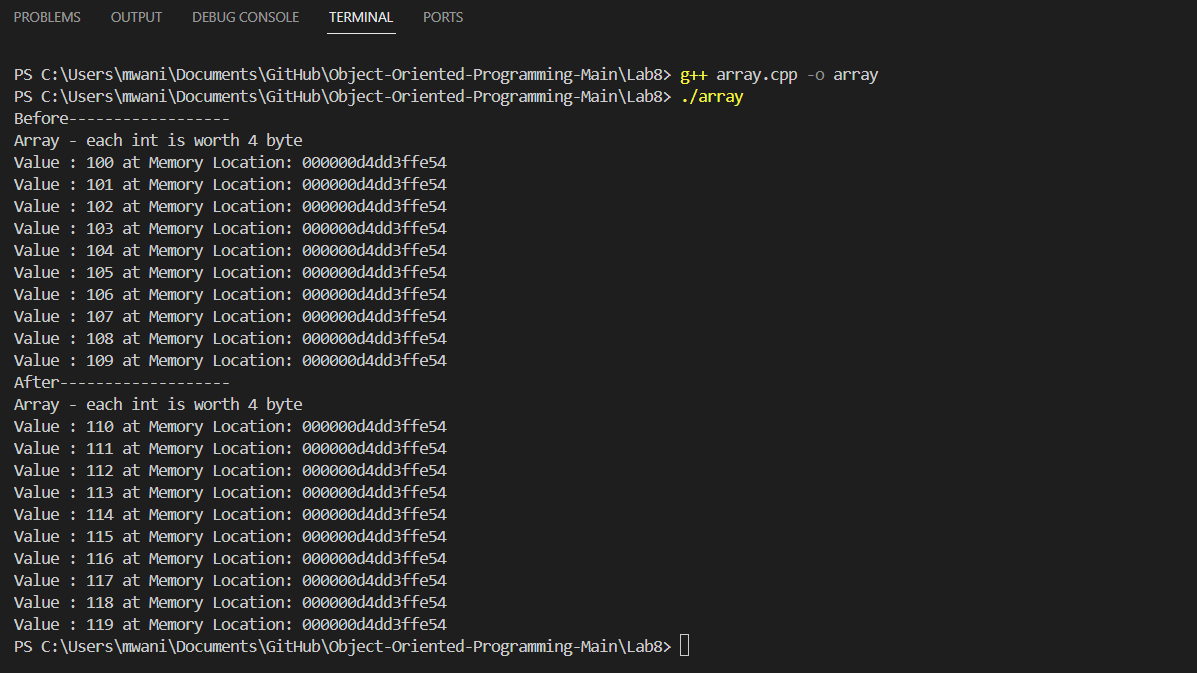
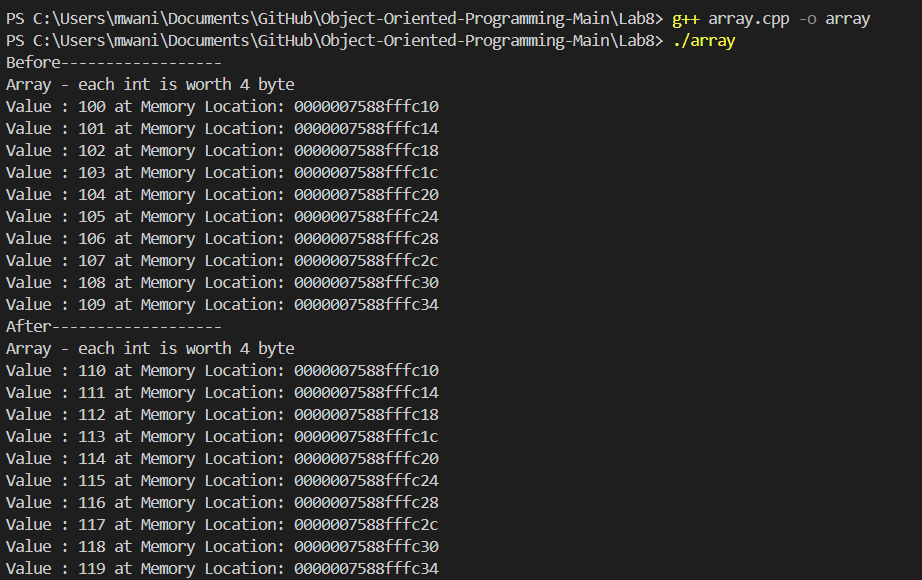
declaring printMemVec

Changed region(s): [[0.0, 0.0, 0.8503, 0.9931], [0.8807, 0.0, 0.9414, 0.0621]]

diff --git a/Lab8/vector.cpp b/Lab8/vector.cpp
@@ -1,0 +1,14 @@
+#include <iostream>
+#include <vector>
+using namespace std;
+/**
+ * @brief prints the elements in the vector and their memory location
+ * 
+ * @param v - vector of integers
+*/
+void printMemVec(vector<int>& v, int size){
+    printf("Vector - each int is worth %lu byte \n", sizeof(v[0]));
+    for(int i = 0; i < size; i++){
+        printf("Value : %i at Memory Location: %p\n", v[i], &v[i]);
+    }
+}
